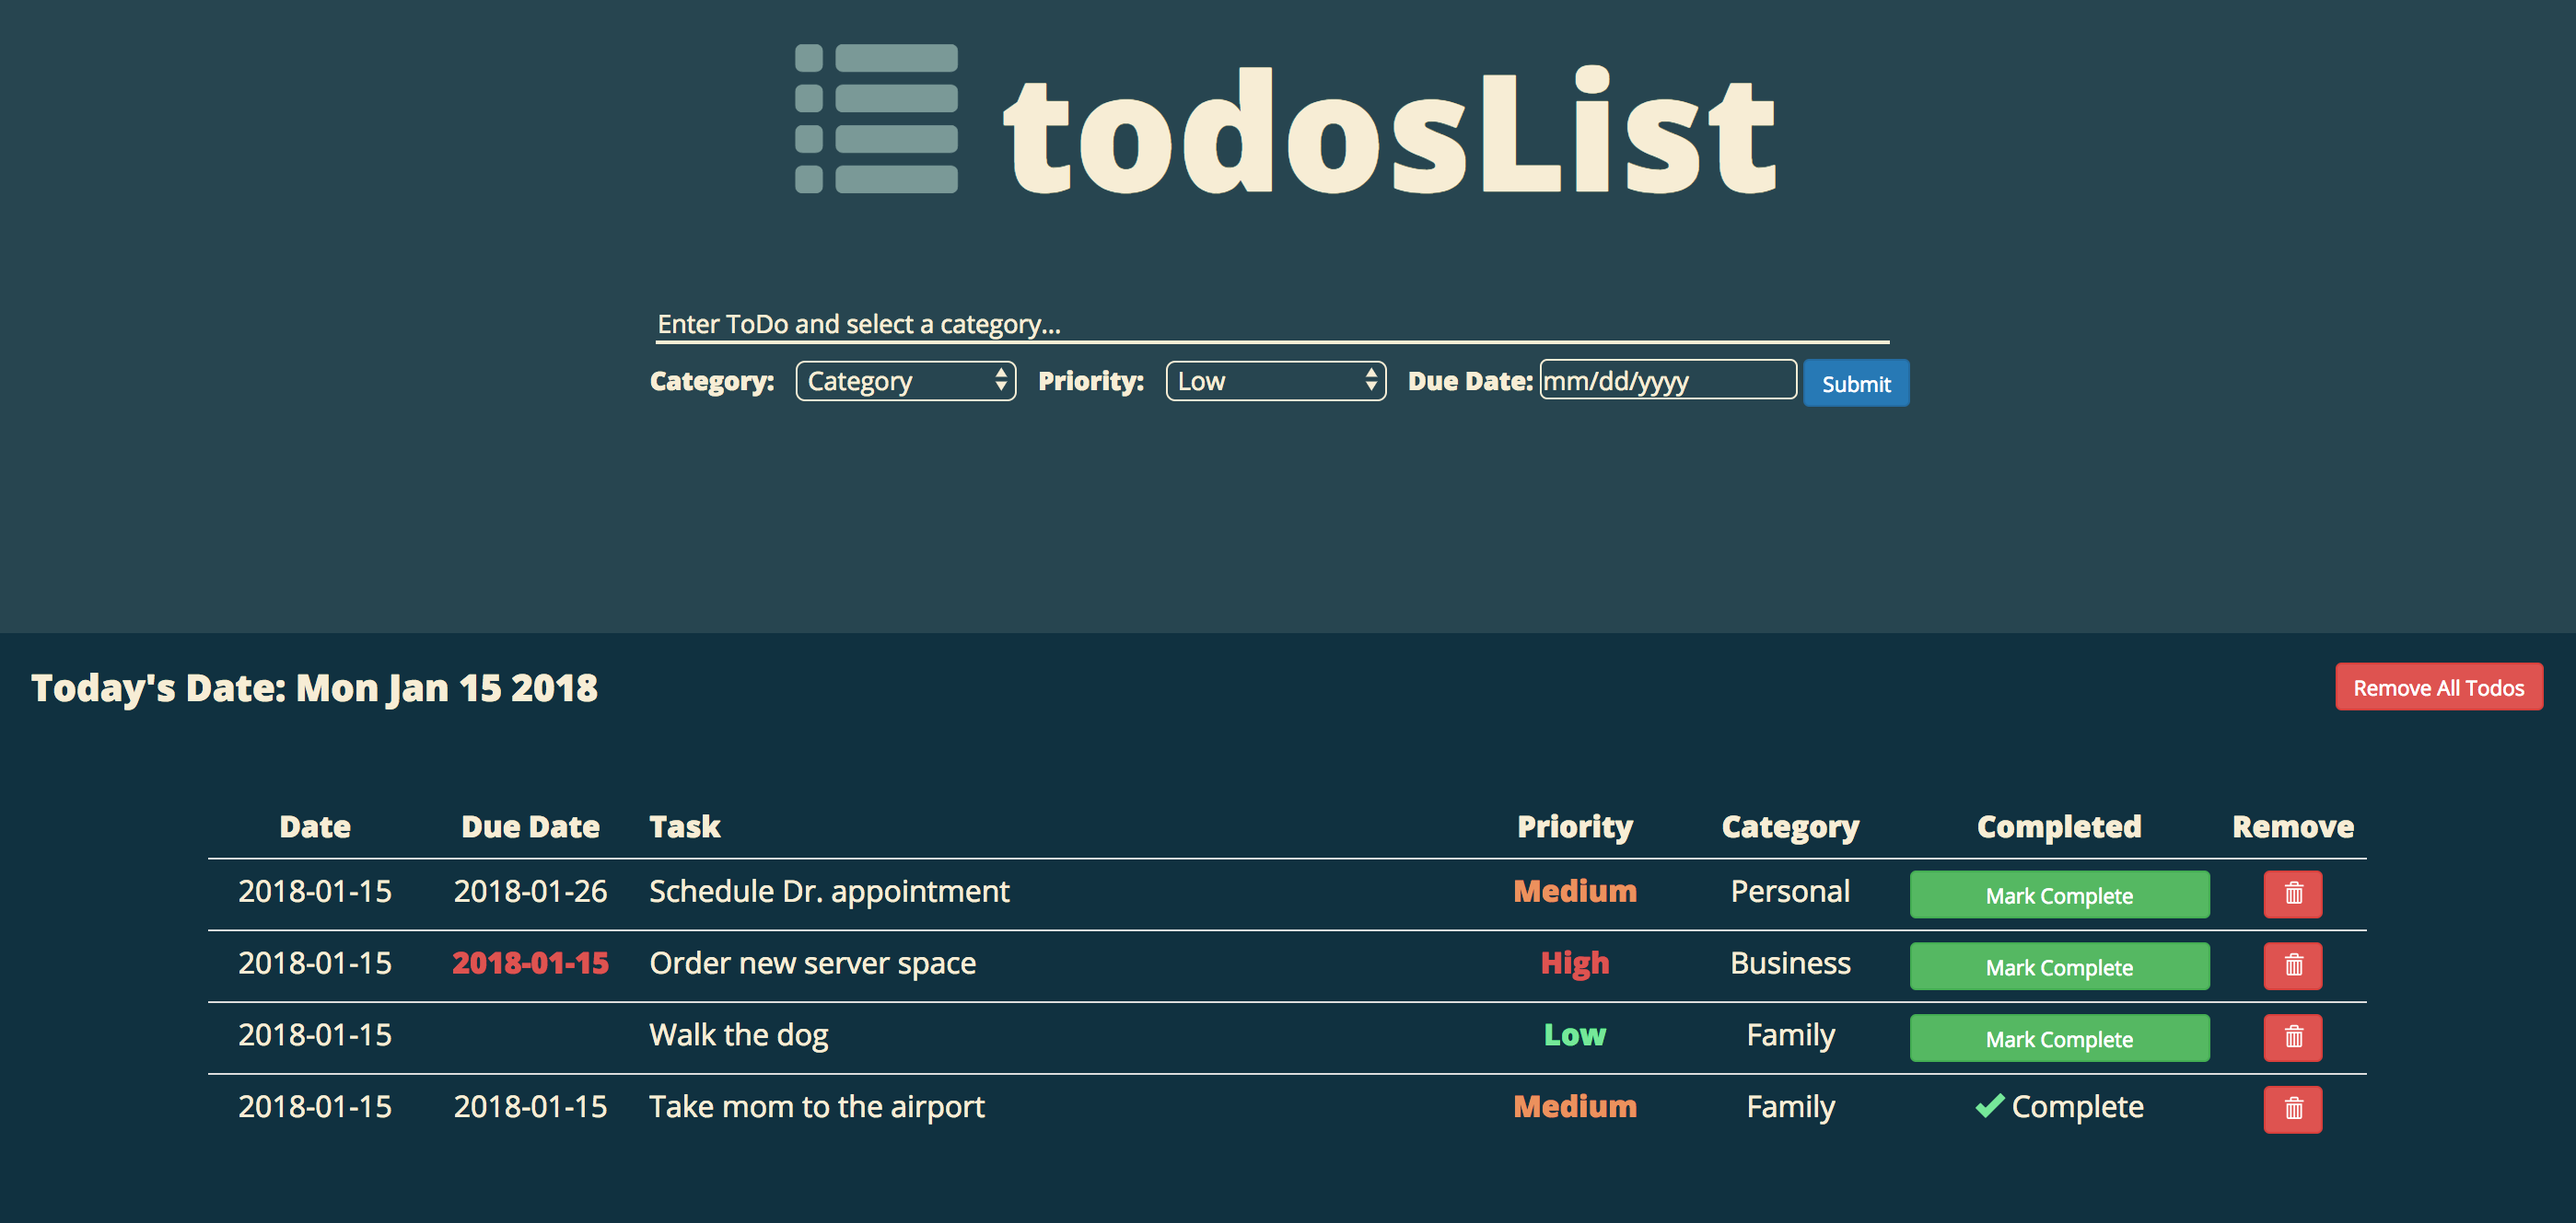
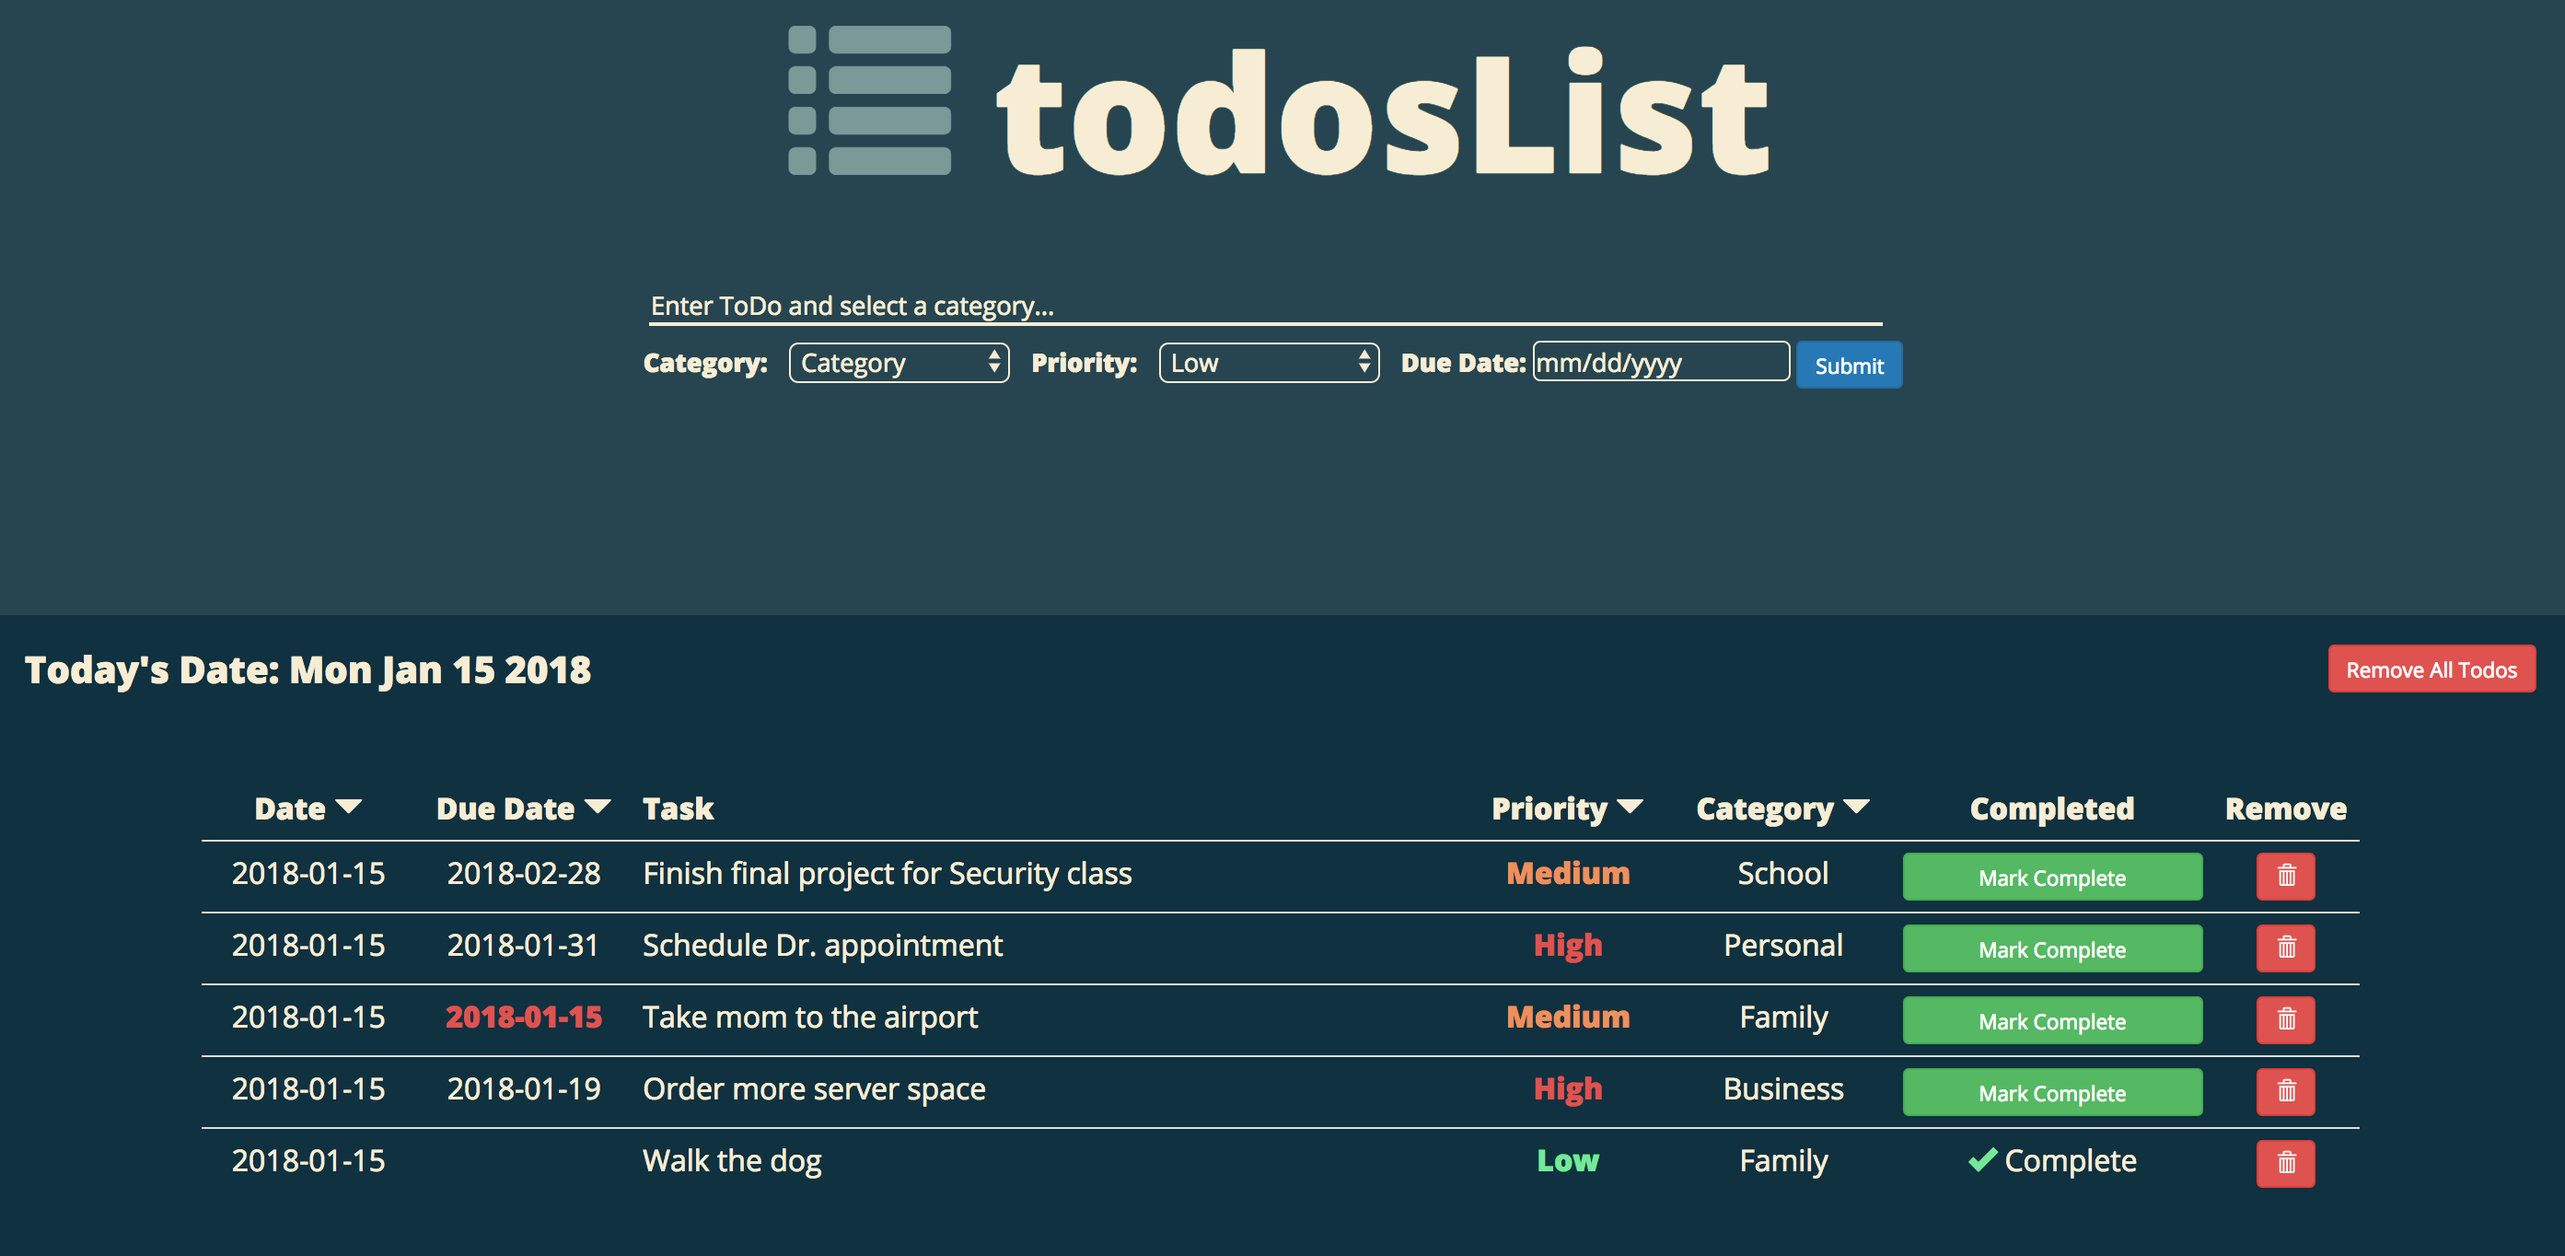
added ability to sort rows

diff --git a/server/routes/order.router.js b/server/routes/order.router.js
@@ -1,0 +1,136 @@
+const express = require('express');
+const router = express.Router();
+const pool = require('../modules/pool');
+
+let orderDate = false;
+let orderDueDate = false;
+let orderPriority = false;
+let orderCategory = false;
+
+
+router.get('/orderDate', (req,res) =>{
+    let queryText;
+    
+    if (!orderDate) {
+        queryText = `SELECT todos.id, todos.task_date, todos.due_date, todos.task, todos.completed, categories.category, priority.priorities
+        FROM todos 
+        JOIN categories ON todos.category_id = categories.id
+        JOIN priority ON todos.priority_id = priority.id 
+        ORDER BY todos.task_date, todos.id DESC`;
+        orderDate = true;
+    } else {
+        queryText = `SELECT todos.id, todos.task_date, todos.due_date, todos.task, todos.completed, categories.category, priority.priorities
+        FROM todos 
+        JOIN categories ON todos.category_id = categories.id
+        JOIN priority ON todos.priority_id = priority.id 
+        ORDER BY todos.task_date, todos.id`;
+        orderDate = false;
+    }
+
+    pool.query(queryText)
+        .then((results) =>{
+            // console.log('query results: ', results);        
+            res.send(results.rows);
+        })
+        .catch((err) =>{
+            // console.log('error making select query:', err);
+            res.sendStatus(500);
+        });
+}); // end get('/dueDate)
+
+// orders due date column
+// begin get('/dueDate)
+router.get('/orderDueDate', (req,res) =>{
+    let queryText;
+    
+    if (!orderDueDate) {
+        queryText = `SELECT todos.id, todos.task_date, todos.due_date, todos.task, todos.completed, categories.category, priority.priorities
+        FROM todos 
+        JOIN categories ON todos.category_id = categories.id
+        JOIN priority ON todos.priority_id = priority.id 
+        ORDER BY todos.due_date`;
+        orderDueDate = true;
+    } else {
+        queryText = `SELECT todos.id, todos.task_date, todos.due_date, todos.task, todos.completed, categories.category, priority.priorities
+        FROM todos 
+        JOIN categories ON todos.category_id = categories.id
+        JOIN priority ON todos.priority_id = priority.id 
+        ORDER BY todos.due_date DESC`;
+        orderDueDate = false;
+    }
+
+    pool.query(queryText)
+        .then((results) =>{
+            // console.log('query results: ', results);        
+            res.send(results.rows);
+        })
+        .catch((err) =>{
+            // console.log('error making select query:', err);
+            res.sendStatus(500);
+        });
+}); // end get('/dueDate)
+
+// orders due date column
+// begin get('/dueDate)
+router.get('/orderPriority', (req,res) =>{
+    let queryText;
+    
+    if (!orderPriority) {
+        queryText = `SELECT todos.id, todos.task_date, todos.due_date, todos.task, todos.completed, categories.category, priority.priorities
+        FROM todos 
+        JOIN categories ON todos.category_id = categories.id
+        JOIN priority ON todos.priority_id = priority.id 
+        ORDER BY todos.priority_id DESC`;
+        orderPriority = true;
+    } else {
+        queryText = `SELECT todos.id, todos.task_date, todos.due_date, todos.task, todos.completed, categories.category, priority.priorities
+        FROM todos 
+        JOIN categories ON todos.category_id = categories.id
+        JOIN priority ON todos.priority_id = priority.id 
+        ORDER BY todos.priority_id`;
+        orderPriority = false;
+    }
+
+    pool.query(queryText)
+        .then((results) =>{
+            // console.log('query results: ', results);        
+            res.send(results.rows);
+        })
+        .catch((err) =>{
+            // console.log('error making select query:', err);
+            res.sendStatus(500);
+        });
+}); // end get('/dueDate)
+
+router.get('/orderCategory', (req,res) =>{
+    let queryText;
+    
+    if (!orderCategory) {
+        queryText = `SELECT todos.id, todos.task_date, todos.due_date, todos.task, todos.completed, categories.category, priority.priorities
+        FROM todos 
+        JOIN categories ON todos.category_id = categories.id
+        JOIN priority ON todos.priority_id = priority.id 
+        ORDER BY todos.category_id`;
+        orderCategory = true;
+    } else {
+        queryText = `SELECT todos.id, todos.task_date, todos.due_date, todos.task, todos.completed, categories.category, priority.priorities
+        FROM todos 
+        JOIN categories ON todos.category_id = categories.id
+        JOIN priority ON todos.priority_id = priority.id 
+        ORDER BY todos.category_id DESC`;
+        orderCategory = false;
+    }
+
+    pool.query(queryText)
+        .then((results) =>{
+            // console.log('query results: ', results);        
+            res.send(results.rows);
+        })
+        .catch((err) =>{
+            // console.log('error making select query:', err);
+            res.sendStatus(500);
+        });
+}); // end get('/orderPriority)
+
+
+module.exports = router;

diff --git a/server/routes/todos.router.js b/server/routes/todos.router.js
@@ -2,6 +2,9 @@ const express = require('express');
 const router = express.Router();
 const pool = require('../modules/pool');
 
+let orderDueDate = false;
+let orderPriority = false;
+
 // GET routes
 
 router.get('/', (req,res) =>{
@@ -18,7 +21,7 @@ router.get('/', (req,res) =>{
             res.send(results.rows);
         })
         .catch((err) =>{
-            // console.log('error making select query:', err);
+            console.log('error making select query:', err);
             res.sendStatus(500);
         });
 });
@@ -32,7 +35,7 @@ router.get('/categories', (req,res) =>{
             res.send(results.rows);
         })
         .catch((err) =>{
-            // console.log('error making select query:', err);
+            console.log('error making select query:', err);
             res.sendStatus(500);
         });
 });
@@ -46,7 +49,7 @@ router.get('/priorities', (req,res) =>{
             res.send(results.rows);
         })
         .catch((err) =>{
-            // console.log('error making select query:', err);
+            console.log('error making select query:', err);
             res.sendStatus(500);
         });
 });
@@ -54,7 +57,6 @@ router.get('/priorities', (req,res) =>{
 // POST routes
 
 router.post('/', (req,res) =>{
-    console.log('due date', req.body.dueDate.length);
     let queryText
     if (req.body.dueDate.length == 0) {
         queryText= 'INSERT INTO todos(task, due_date, category_id, priority_id) VALUES ($1, NULL, $2, $3)';
@@ -95,7 +97,7 @@ router.put('/completeUpdate/:id', (req,res) =>{
             res.send(results);
         })
         .catch((err) =>{
-            // console.log('error making update query:', err);
+            console.log('error making update query:', err);
             res.sendStatus(500);
         });
 });
@@ -112,7 +114,7 @@ router.delete('/deleteTodo/:id', (req,res) => {
             res.send(results);
         })
         .catch((err) =>{
-            // console.log('error making delete query:', err);
+            console.log('error making delete query:', err);
             res.sendStatus(500);
         });
 });
@@ -126,7 +128,7 @@ router.delete('/deleteAllTodos', (req,res) => {
             res.send(results);
         })
         .catch((err) =>{
-            // console.log('error making delete query:', err);
+            console.log('error making delete query:', err);
             res.sendStatus(500);
         });
 });

diff --git a/server/public/scripts/client.js b/server/public/scripts/client.js
@@ -12,8 +12,13 @@ $(document).ready(function() {
     $('#todosList').on('click', '.btn-success', updateCompleted);
     $('#todosList').on('click', '.btn-danger', confirmRemove);
     $('#removeConfirmed').on('click', removeTodo);
-    $('#removeAllTodos').on('click', confirmRemoveAll)
-    $('#removeAllConfirmed').on('click', removeAllTodos)
+    $('#removeAllTodos').on('click', confirmRemoveAll);
+    $('#removeAllConfirmed').on('click', removeAllTodos);
+    $('#orderDate').on('click', orderDate);
+    $('#orderDueDate').on('click', orderDueDate);
+    $('#orderPriority').on('click', orderPriority);
+    $('#orderCategory').on('click', orderCategory);
+
 }); // end document ready
 
 
@@ -58,6 +63,50 @@ function getTodos() {
         }
     });
 } // end getTodos()
+
+// begin orderDate()
+function orderDate() {
+    $.ajax({
+        method: 'GET',
+        url: '/order/orderDate',
+        success: function(response) {
+            displayAllToDos(response);
+        }
+    });
+} // end orderDate()
+
+// begin orderDueDate()
+function orderDueDate() {
+    $.ajax({
+        method: 'GET',
+        url: '/order/orderDueDate',
+        success: function(response) {
+            displayAllToDos(response);
+        }
+    });
+} // end orderDueDate()
+
+// begin orderPriority()
+function orderPriority() {
+    $.ajax({
+        method: 'GET',
+        url: '/order/orderPriority',
+        success: function(response) {
+            displayAllToDos(response);
+        }
+    });
+} // end orderPriority()
+
+// begin orderCategory()
+function orderCategory() {
+    $.ajax({
+        method: 'GET',
+        url: '/order/orderCategory',
+        success: function(response) {
+            displayAllToDos(response);
+        }
+    });
+} // end orderCategory()
 
 
 // begin displayAllToDos(todos)
@@ -116,9 +165,6 @@ function overDueTasks(todo) {
     let taskDue;
     let today = new Date;
     today = today.toISOString();
-    
-    console.log(today);
-    console.log(todo);
     
     if (today > todo) {
         taskDue = 'overDue';

diff --git a/server/public/index.html b/server/public/index.html
@@ -1,7 +1,7 @@
 <!DOCTYPE html>
 <html>
 <head>
-    <title>Page Title</title>
+    <title>todosList</title>
     <meta name="viewport" content="width=device-width, initial-scale=1">
     <link rel="stylesheet" href="vendors/bootstrap.css">
     <link rel="stylesheet" href="styles/main.css"/>
@@ -59,11 +59,11 @@
                   <table class="table">
                         <thead>
                             <tr>
-                                <th class="ten">Date</th>
-                                <th class="ten">Due Date</th>
+                                <th class="ten">Date <span id="orderDate" class="glyphicon glyphicon-triangle-bottom"></span></th>
+                                <th class="ten">Due Date <span id="orderDueDate" class="glyphicon glyphicon-triangle-bottom"></span></th>
                                 <th class="forty">Task</th>
-                                <th class="ten">Priority</th>
-                                <th class="ten">Category</th>
+                                <th class="ten">Priority <span id="orderPriority" class="glyphicon glyphicon-triangle-bottom"></span></th>
+                                <th class="ten">Category <span id="orderCategory" class="glyphicon glyphicon-triangle-bottom"></span></th>
                                 <th class="fifteen">Completed</th>
                                 <th class="five">Remove</th>
                             </tr>

diff --git a/server/server.js b/server/server.js
@@ -3,12 +3,14 @@ const express = require('express');
 const bodyParser = require('body-parser');
 const app = express();
 const todos = require('./routes/todos.router');
+const orderRouter = require('./routes/order.router');
 
 app.use(bodyParser.urlencoded({extended:true}));
 app.use(express.static('server/public'));
 
 // routes
 app.use('/todoList', todos);
+app.use('/order', orderRouter);
 
 // Port Listener
 const port = 8088;
